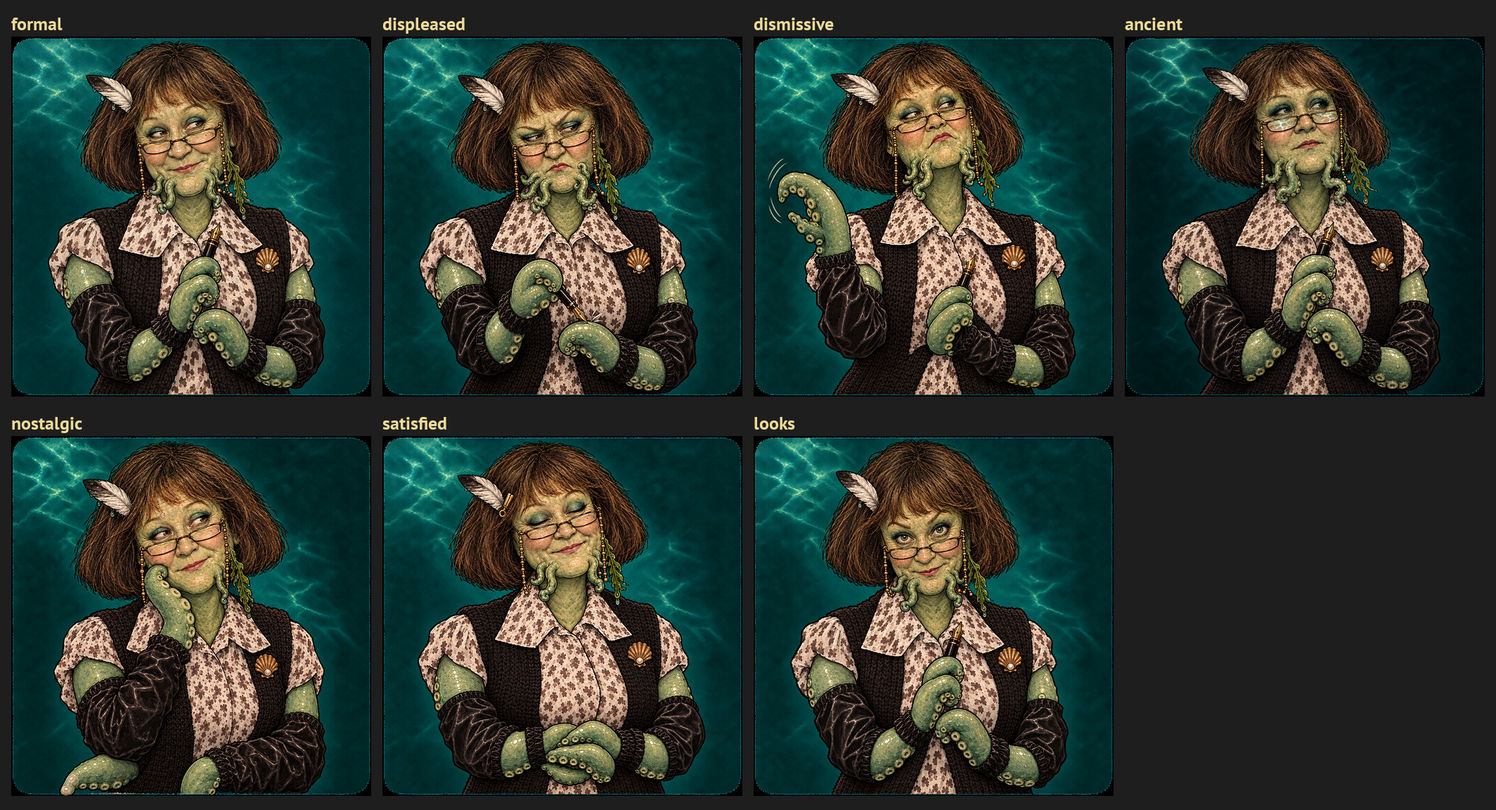
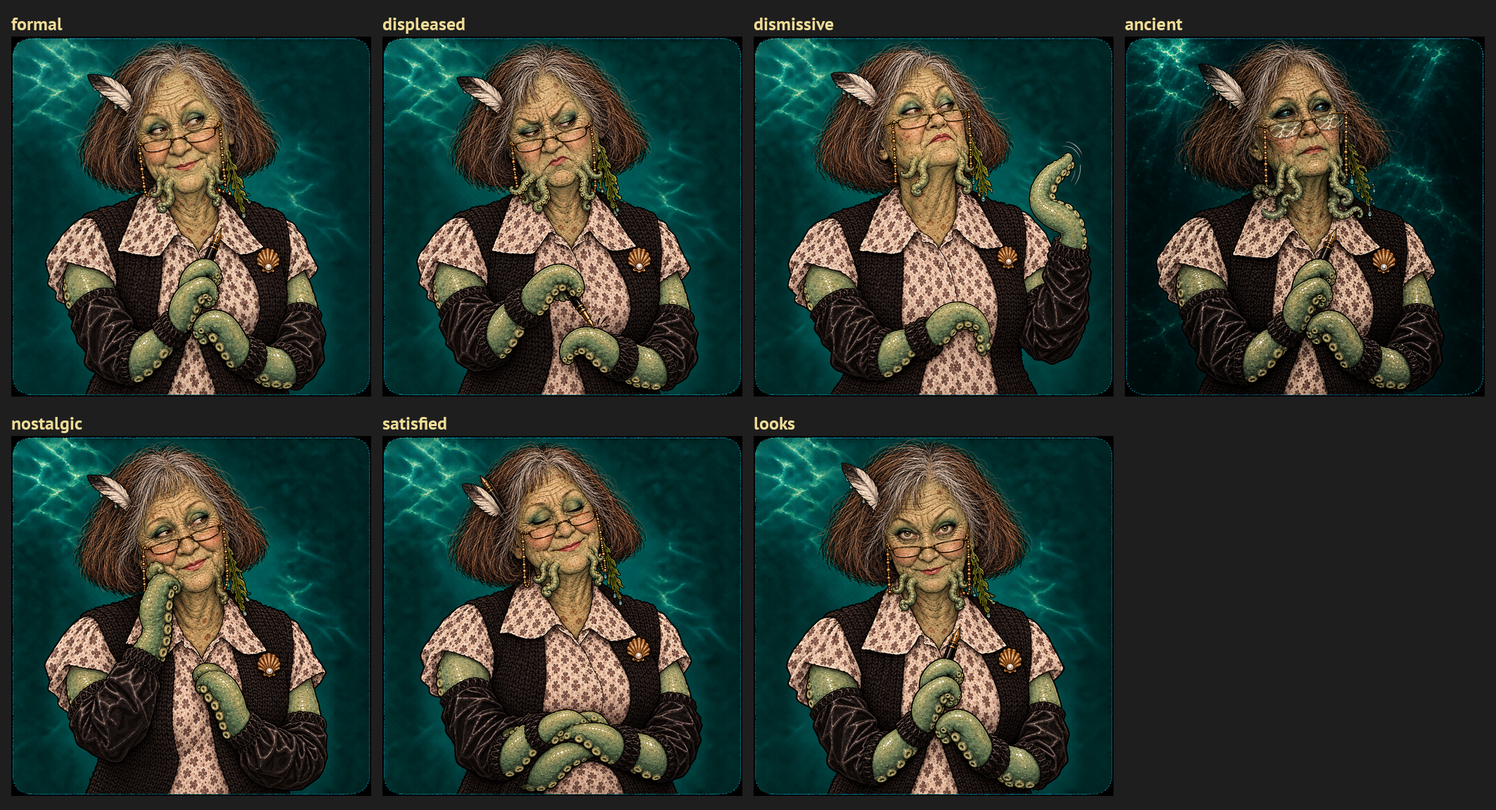
DESIGN_BIBLE §9: яркость ≥30 % (решение автора); Кухтулху: основа А, 7 эмоций на приёмку
Claude-Session: https://claude.ai/code/session_01XjtzREjhsuVaRGK9oQqD2h

diff --git a/docs/BJ3_ASSET_SPEC.md b/docs/BJ3_ASSET_SPEC.md
@@ -63,7 +63,7 @@
 
 ### 1.6. Яркость, контраст, размер объектов
 
-- Средняя относительная яркость **игровых экранов и зумов — не темнее принятых автором кадров пакета 2, рабочий порог ≈ 30 %** (решение автора 06.10.2026: яркость `room_w1` 32 %, `zoom_z02` 32 %, `zoom_z03` 39 % «устраивает», осветление не нужно). DESIGN_BIBLE §9 требует ≥ 45 % — расхождение доложено автору (§13), до его слова Библия не правится. Кадры немых сцен — так же, кроме `fr_a3_dark`: ему разрешена темнота (решение автора 06.10.2026, §13 п. 1).
+- Средняя относительная яркость **игровых экранов и зумов — не темнее принятых автором кадров пакета 2, рабочий порог ≈ 30 %** (решение автора 06.10.2026: яркость `room_w1` 32 %, `zoom_z02` 32 %, `zoom_z03` 39 % «устраивает», осветление не нужно). DESIGN_BIBLE §9 приведена к этому решением автора 06.10.2026 (было ≥ 45 %). Кадры немых сцен — так же, кроме `fr_a3_dark`: ему разрешена темнота (решение автора 06.10.2026, §13 п. 1).
 - Интерактивный объект на базе — **не меньше 64 px по меньшей стороне** (зона ≥ 44 px с запасом) и контрастнее окружения силуэтом (гейт силуэтов BJ2: запас ≥ ×1,2; бежевое на бежевом — брак, урок BJ2 №6).
 - Цвет — не единственный носитель состояния: индикатор каскада и манометр меняют **форму** (стрелка, лампа), не только цвет (R-09).
 
@@ -512,7 +512,7 @@
 
 ### 5.3. Кухтулху (новый портрет)
 
-Внучка Ктулху, потомственный бухгалтер. Усталая дама из бухгалтерии на вид около шестидесяти (на деле — вечность): гладкие волосы цвета мокрого сланца в тугом пучке, очки-половинки на цепочке, тёмный жакет с брошью-ракушкой; кожа серо-зелёная с влажным блеском; под носом и на подбородке — короткие мягкие щупальца-«бакенбарды» (намёк на деда, не страшно); руки — щупальца в **чёрных сатиновых нарукавниках**, в одном перо. Комедия, не хоррор: ни зубов, ни слизи, ни крови. Подложка — тёмная бирюза с отблеском воды. До выхода героя глаза в бумагах; `kuh_looks` — портрет смотрит прямо на игрока. **По прототипу автора** (фото в чате 06.10.2026; отступление от правила канона «без реальных персон» — как у Изольды, по решению автора): дружеский шарж — круглое лицо с ямочками, густая неровная чёлка до бровей, каре, хитрый прищур светлых глаз, широкий нос, сжатая улыбка; волосы — цвета мокрого сланца (вместо пучка — каре прототипа). **Главный гэг** (решение автора): чёрные сатиновые бухгалтерские нарукавники на резинках надеты **прямо на голые щупальца** — пиджака и тканевых рукавов нет (нарукавники поверх пиджака — нелепо, решение автора 06.10.2026); одежда — пёстрая блузка с короткими рукавами, при желании вязаная жилетка. Мелкие гэги: морская звезда вместо скрепки, след присоски вместо следа от чашки, водоросль на цепочке очков. **Утверждённая основа** (решение автора 06.10.2026: «вторая норм» — вариант 5 листа `work/higgsfield/sheet_kuh_v3.png`): каштановое каре прототипа, перо чайки за ухом, пёстрая блузка с рукавами-фонариками, вязаная жилетка с брошью-ракушкой, нарукавники на голых щупальцах; задание Higgsfield `daeb7f1a-af84-4ea3-a09c-5e43ed8c417f` — это `port_kuh_formal.png`; остальные эмоции — от него референсом (лист `work/higgsfield/sheet_kuh_emotions.png`, ждёт приёмки).
+Внучка Ктулху, потомственный бухгалтер. Усталая дама из бухгалтерии на вид около шестидесяти пяти (на деле — вечность): каштановое каре с чёлкой и проседью, очки-половинки на цепочке, пёстрая блузка и вязаная жилетка с брошью-ракушкой; кожа серо-зелёная с влажным блеском; под носом и на подбородке — короткие мягкие щупальца-«бакенбарды» (намёк на деда, не страшно); руки — щупальца в **чёрных сатиновых нарукавниках**, в одном перо. Комедия, не хоррор: ни зубов, ни слизи, ни крови. Подложка — тёмная бирюза с отблеском воды. До выхода героя глаза в бумагах; `kuh_looks` — портрет смотрит прямо на игрока. **По прототипу автора** (фото в чате 06.10.2026; отступление от правила канона «без реальных персон» — как у Изольды, по решению автора): дружеский шарж — круглое лицо с ямочками, густая неровная чёлка до бровей, каре, хитрый прищур светлых глаз, широкий нос, сжатая улыбка; волосы — каштановые с проседью, как у прототипа (вместо сланцевого пучка из первого предложения спеки). **Главный гэг** (решение автора): чёрные сатиновые бухгалтерские нарукавники на резинках надеты **прямо на голые щупальца** — пиджака и тканевых рукавов нет (нарукавники поверх пиджака — нелепо, решение автора 06.10.2026); одежда — пёстрая блузка с короткими рукавами, при желании вязаная жилетка. Мелкие гэги: морская звезда вместо скрепки, след присоски вместо следа от чашки, водоросль на цепочке очков. **Утверждённая основа** (решения автора 06.10.2026: «вторая норм» — вариант 5 листа `work/higgsfield/sheet_kuh_v3.png`; затем «очень моложавая, ей 60 минимум» → вариант А листа `work/higgsfield/sheet_kuh_age.png`, на вид ~65, проседь): каштановое каре прототипа, перо чайки за ухом, пёстрая блузка с рукавами-фонариками, вязаная жилетка с брошью-ракушкой, нарукавники на голых щупальцах; задание Higgsfield `38e423c1-fe9b-4829-9a17-2bdbf750a6c9` — это `port_kuh_formal.png`; остальные эмоции — от него референсом (лист `work/higgsfield/sheet_kuh_emotions.png`, ждёт приёмки).
 
 | Файл | Размер | Что |
 |---|---|---|
@@ -819,14 +819,13 @@
 
 **Решения автора 06.10.2026, вторая очередь:**
 
-11. Яркость принятых кадров пакета 2 (32–39 %) — **устраивает**, без осветления (§1.6). `room_w1`, `zoom_z02`, `zoom_z03` — **приняты**.
+11. Яркость принятых кадров пакета 2 (32–39 %) — **устраивает**, без осветления (§1.6); DESIGN_BIBLE §9 исправлена на «≥ 30 %, не темнее принятых кадров». `room_w1`, `zoom_z02`, `zoom_z03` — **приняты**.
 12. Музыка: `mus_hold` — ок, принят; основные темы — богаче, вайб юмористических квестов, эталон The Neverhood (§9.3).
 13. Кухтулху — **по прототипу автора** (фото в чате 06.10.2026); главный гэг — бухгалтерские сатиновые нарукавники на щупальцах (§5.3).
 14. Во все картинки — **визуальные гэги**, не прописанные в тексте (§1.3).
 
 **Открыто:**
 
-- **Яркость в DESIGN_BIBLE §9** («≥ 45 %») расходится с решением п. 11 — править ли Библию (на «≥ 30 %, не темнее принятых кадров»)?
 - **Кухтулху** (§5.3) — основа выбрана (вариант 5); приёмка 7 эмоций по листу `work/higgsfield/sheet_kuh_emotions.png`.
 - **Музыка** — Suno через MCP AceDataCloud (§9.3а): ждём подключения коннектора автором.
 

diff --git a/PROJECT_STATUS_HYDROUDAR.md b/PROJECT_STATUS_HYDROUDAR.md
@@ -8,8 +8,8 @@
 - **Конвейер ассетов (решение автора 06.10.2026):** графику генерирует Claude через коннектор Higgsfield (GPT Image 2.5, эталоны стиля BJ2 загружены), музыку и звук пишет Claude из сэмплов живых инструментов (VSCO 2 CE, CC0, — скачивается в контейнер, в git не хранится). Цены, бюджет (≈ 353 кредита без перегенераций при балансе 246,9) и пробный прогон — спека §14; журнал генераций — `work/higgsfield/log.jsonl`. Состояние на 06.10.2026: приняты портреты Лапидуса (28), Изольды (7), Предка из BJ2 (4), `room_w1`, `zoom_z02`, `zoom_z03`, музыка `mus_hold`; Кухтулху — выбор основы автором (лист `work/higgsfield/sheet_kuh_v3.png`); `zoom_z01` — переделка (лейка не «вывернута»); пробник главной темы в духе The Neverhood — `work/music/bgm_hotel.ogg`. Решения автора второй очереди — спека §13 п. 11–14.
 - **Точка продолжения (06.10.2026, конец сессии):**
   1. **Музыка — ElevenLabs Music API.** Звук сэмплера автора не устроил («лажа»); Suno через AceDataCloud у автора не заработал. Ключ автор добавил в переменные окружения как `ELEVENLABS_API_KEY`. Первым делом: проверить, что ключ есть и что тариф даёт музыку (`POST https://api.elevenlabs.io/v1/music`); затем по 2–3 варианта каждой темы по стилям спеки §9.3а (инструментал, уютно, вайб The Neverhood без «смешных» гармоний) → прослушивание у автора → петля, −18 LUFS, OGG. `mus_hold` — свой, принят. Спеку §9.3а переписать с Suno на ElevenLabs (условия: на self-serve тарифах коммерческое использование разрешено, кроме «Studio Games»).
-  2. **Кухтулху:** автор: «очень моложавая, ей 60 минимум» → лист `work/higgsfield/sheet_kuh_age.png`, варианты А (~65, задание `38e423c1-fe9b-4829-9a17-2bdbf750a6c9`) и Б (70+, `ee2fa526-9603-4b58-bcb7-ebf7fa235b42`); ждём выбора, затем 6 эмоций от выбранного (лист `sheet_kuh_emotions.png` устарел — от молодой основы).
-  3. **Открытые вопросы автору:** правка DESIGN_BIBLE §9 (яркость ≥45 % → «≥30 %, не темнее принятых»); переделка `zoom_z01` (лейка не «вывернута»).
+  2. **Кухтулху:** основа — вариант А (~65, задание `38e423c1-fe9b-4829-9a17-2bdbf750a6c9`, решение автора); 7 эмоций от неё — лист `work/higgsfield/sheet_kuh_emotions.png`, ждут приёмки (в `dismissive`, возможно, лишнее третье щупальце).
+  3. **Открыто:** переделка `zoom_z01` (лейка не «вывернута»). DESIGN_BIBLE §9 — яркость исправлена решением автора 06.10.2026 (≥30 %, не темнее принятых).
 - **Шрифты (06.10.2026):** рукопись — Caveat, печать 1908 года и её бланки — Old Standard TT (Regular, Bold), советская машинопись — PT Mono, диалоги и отель — PT Sans; лицензии OFL рядом. Neucha (нет ѣ) выведена в `work/orig_fonts/`. **Гейт шрифтов `python tools/check_fonts.py` — PASS** (6 шрифтов, 165 символов; пока нет `design/texts.json`, гейт читает итоговые тексты). Образец — `docs/assets/font_sample.png`.
 - **Из BJ2 перенесено:** портреты Предка `assets/gfx/portraits/port_anc_*.png` (байт в байт); 8 лиц Лапидуса — референсы в `work/ref_bj2/portraits/`. Тесты: `python -m unittest discover -s tests` — 146 OK.
 - **Где мы (06.10.2026):** четыре акта заморожены (сдачи редакции 2, 16 загадок, 47 обязательных действий). Тексты всех актов написаны и доработаны по ревью и решениям автора — `texts/polish/ACT1–4_TEXTS_POLISH.md` (154 / 164 / 110 / 75 слотов; `tools/texts/check_texts.py` без ошибок и предупреждений, `build_layer.check_locks` — строки автора на месте). Производственная сводка собрана: `docs/BJ3_GDD.md` (v1.0) и `docs/BJ3_SLOT_FLAGS.md` (503 слота → флаги графов; `python tools/texts/check_slot_flags.py` — 0 ошибок). Handoff — редакция 4 от 06.10.2026.

diff --git a/docs/DESIGN_BIBLE.md b/docs/DESIGN_BIBLE.md
@@ -107,7 +107,7 @@
 
 Композиция вайда: 5–7 крупных смысловых пятен, воздух между ними; мелочь живёт в зумах, а не на общем плане. Функциональный объект выделяется семантически: силуэтом, normal-cycle-анимацией, взаимодействием NPC, репликой осмотра, изменением состояния. Поиска пикселя нет: минимальная сторона активной зоны — 44 px; при пересечении зон выигрывает меньшая (hit-список сортируется по площади по возрастанию), центры зон не перехватываются; попадание зоны в арт доказывают промеры и verify-листы, а не взгляд на превью.
 
-Читаемость прежде атмосферы. «Тёмные» состояния — светлая дежурная подсветка: средняя яркость кадра ≥45 %. Контраст UI ≥7:1; силуэты интерактива проверяются автоматически.
+Читаемость прежде атмосферы. «Тёмные» состояния — светлая дежурная подсветка: средняя яркость кадра ≥30 % и не темнее принятых автором кадров (решение автора 06.10.2026; было ≥45 %). Контраст UI ≥7:1; силуэты интерактива проверяются автоматически.
 
 ### 10. Сюжетная интеграция и секретный слой
 

diff --git a/BJ3_HANDOFF.md b/BJ3_HANDOFF.md
@@ -39,7 +39,7 @@
 
 | Файл | Роль | md5 |
 |---|---|---|
-| `DESIGN_BIBLE.md` v3.0 | канон серии: игра как система | `79eed6c3bc7dedee7efadc0b0f3468f9` |
+| `DESIGN_BIBLE.md` v3.0 | канон серии: игра как система | `76175737e5c6792e53e4429ab27865be` (06.10.2026: норма яркости §9 — решение автора) |
 | `02_WRITING_BIBLE.md` v3.0 | канон серии: голос, юмор, формат реплики | `8ee409f7999d2e2cbf6864b6cd053e32` |
 | `BJ3_WORLD_CANON_V2.md` | канон мира и локи «Гидроудара» | `59d04b58c04971a35a85b2720284101b` |
 | `BJ3_CANON_V2_1.md`, `BJ3_CANON_V2_2.md` | поправки канона: решения автора 04.10 и 05.10.2026 (долговая мотивация Кухтулху, без драмы; снятые owner-canon строки Акта IV, пуск руками героя) | живые, без md5 |
